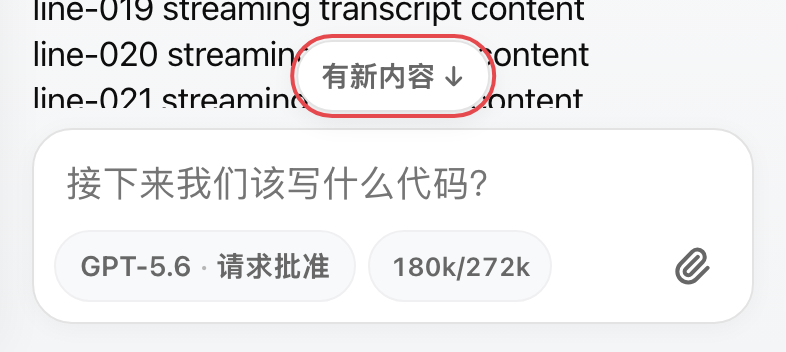
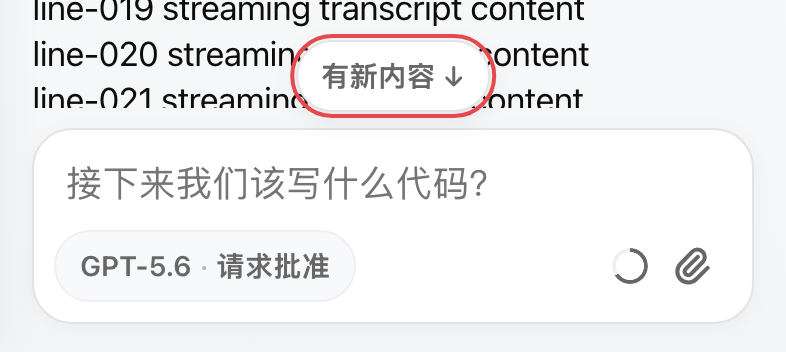
feat(ui): 删掉转圈，上下文用量改成 ChatGPT 那种圆环
你问「桌面端也有转圈吗」——查了 bundle，答案是没有。它那个圆是
composer.contextUsageIndicator（aria-label「上下文用量：{percent}%」），
按百分比填充的用量环，不是 loading。我之前把它看成转圈了。

所以这里有两笔账：

- 转圈（#mini-status-spinner）删掉。桌面端那条输入栏没有对应物；停止按钮本身
  就说明在跑，消息流里还有「正在思考」，第三个信号是冗余。
- 上下文用量从 `24.5k/258.4k` 的数字胶囊改成 18px 圆环，具体数字退到 title
  （文案取 composer.contextWindowUsageTooltip「已用 {n}k 标记，共 {n}k」），
  并从左边的胶囊区挪到右边操作区，位置对齐桌面端。

省下的宽度让上一版那个补丁可以撤掉：84px 胶囊 + 20px 转圈换成 18px 环之后，
turn 进行中再也不挤，不必靠 data-turn-busy 把用量藏起来。信息不丢。

环用 conic-gradient 填、mask 挖中心——挖空比盖一个同色圆点可靠，后者要求背景色
永远和容器一致，换个主题就露馅。

**顺带修了一个真 bug**：usedPct 从来没被钳过。长会话累积用量会超过窗口（全量
e2e 里实测到 437%，webkit 966%），数字胶囊时代只是显示得奇怪，喂给
conic-gradient 就是非法输入。钳在 token-usage.js 里而不是 CSS：CSS 拿到的是
「画多少」，不该由它判断数据合不合理。tone 仍然是 bad、title 仍报真实数字。

Constraint: 上下文用量是本项目特有的，桌面端那条栏里没有数字形态可抄，
        只有环 + tooltip 这个分工可抄
Rejected: 保留转圈只是缩小它——问题不是尺寸，是这个信号本身重复
Tested: npm run lint 绿
Tested: npm test 1097 passed / 0 failed（token-usage 新增 3 条：百分比、
        tooltip 文案、超窗口钳制）
Tested: npx playwright test 179 passed / 0 failed（chrome + webkit 全量）
Tested: 注入验收——摘掉 composer-chips 的 display:flex，输入区绊线红在
        「控件行从 40px 窜到 72px——胶囊换行了」
Not-tested: 环在真机上的可辨识度。18px 的淡灰环在 mock 截图里偏轻，
        用量低时只填一小段，实际好不好认要上手看

Changed region(s): [[0.4885, 0.7188, 0.6718, 0.8125], [0.7634, 0.6875, 0.8244, 0.8125]]

diff --git a/e2e/layout-sanity.spec.js b/e2e/layout-sanity.spec.js
@@ -213,8 +213,8 @@ test('卡片里的自然语言不套用代码样式', async ({ page }) => {
 test('turn 跑起来时输入区不窜高：控件挤不下要横向让位，不是换行', async ({ page }) => {
   await page.goto('/');
   await expect(page.locator('#state-label')).toHaveText('idle', { timeout: 10000 });
-  // 先跑一轮，让上下文表出现——它只在拿到用量之后才渲染，而它正是把这一行挤爆的那一个。
-  await page.locator('#msg-input').fill('让上下文表出现');
+  // 先跑一轮，用量环只在拿到用量之后才渲染。
+  await page.locator('#msg-input').fill('让上下文用量出现');
   await page.locator('#send-btn').click();
   await expect(page.locator('#state-label')).toHaveText('idle', { timeout: 20000 });
   await expect(page.locator('#context-meter')).toBeVisible({ timeout: 8000 });
@@ -226,15 +226,9 @@ test('turn 跑起来时输入区不窜高：控件挤不下要横向让位，不
   // 最坏情况由 JS 直接摆出来，不去等真实 turn 的时序：这条测的是「CSS 在控件全部
   // 在场时还能不能保持单行」，而按时序抓这一瞬极易变成偶发红（实测 #state-label
   // 在 turn 真正开始前就已经是 idle）。
-  //
-  // 关键是**同时**留着上下文表：turn 进行中它本来会被收起，胶囊区只剩一个元素、
-  // 怎么排都不会换行，于是这条断言测不到 composer-chips 的 flex 布局——第一版就是
-  // 这样，把 display:flex 摘掉仍然全绿。这里显式把它放回场上，让胶囊区真的放不下。
   await page.locator('#msg-input').fill('打字中的内容');
   await page.evaluate(() => {
     const doc = globalThis.document;
-    doc.querySelector('#input-area').toggleAttribute('data-turn-busy', true);
-    doc.querySelector('#mini-status-spinner').style.display = 'flex';
     doc.querySelector('#followup-btn').hidden = false;
     doc.querySelector('#send-btn-container').hidden = false;
     const send = doc.querySelector('#send-btn');
@@ -242,31 +236,32 @@ test('turn 跑起来时输入区不窜高：控件挤不下要横向让位，不
     send.disabled = false;
     send.dataset.mode = 'stop';
   });
+  expect(await rowHeight(), '控件全部在场时输入区就窜高了').toBe(idleHeight);
 
-  const crowdedHeight = await page.evaluate(() => {
-    const doc = globalThis.document;
-    const meter = doc.querySelector('#context-meter');
-    const restore = meter.style.display;
-    meter.style.display = 'inline-flex';
-    const h = Math.round(doc.querySelector('.input-controls-row').getBoundingClientRect().height);
-    meter.style.display = restore;
-    return h;
+  // 再往胶囊区塞一个控件，模拟「将来这一行又多了点东西」。这一步是这条用例的
+  // 鉴别力所在：胶囊区目前只剩设置胶囊一个元素，无论怎么排都不会换行，不注入
+  // 第二个元素的话，把 composer-chips 的 display:flex 摘掉它照样全绿。
+  await page.evaluate(() => {
+    const probe = globalThis.document.createElement('span');
+    probe.id = 'layout-probe';
+    probe.textContent = '再加一个控件';
+    probe.style.cssText = 'display:inline-flex;align-items:center;height:36px;padding:0 12px;white-space:nowrap;';
+    globalThis.document.querySelector('#composer-chips').appendChild(probe);
   });
-  // 改动前这里会从 40px 变成 80px：composer-chips 曾经是 block 容器，里面两个
+  const crowdedHeight = await rowHeight();
+  // 改动前这里会从 40px 变成 72px：composer-chips 曾经是 block 容器，里面的
   // inline-flex 胶囊放不下就换行，把整个输入区顶高一截。
   expect(crowdedHeight, `控件行从 ${idleHeight}px 窜到 ${crowdedHeight}px——胶囊换行了`)
     .toBe(idleHeight);
+  await page.evaluate(() => globalThis.document.querySelector('#layout-probe')?.remove());
 
-  const busyHeight = await rowHeight();
-  expect(busyHeight, '收起上下文表之后仍然应当是单行').toBe(idleHeight);
-
-  // 而且不能剩半个胶囊露在外面被右侧控件切掉：放不下就整个收起。
-  const meterClipped = await page.evaluate(() => {
+  // 用量环必须完整露在外面，不能被右侧控件切掉半个。
+  const ringClipped = await page.evaluate(() => {
     const m = globalThis.document.querySelector('#context-meter');
     const box = m.getBoundingClientRect();
-    if (!box.width) return false; // 已收起，符合预期
-    const chips = globalThis.document.querySelector('#composer-chips').getBoundingClientRect();
-    return box.right > chips.right + 1;
+    if (!box.width) return true; // 该显示却量不到，也是缺陷
+    const row = globalThis.document.querySelector('.input-controls-row').getBoundingClientRect();
+    return box.left < row.left - 1 || box.right > row.right + 1;
   });
-  expect(meterClipped, '上下文表只剩半个露在胶囊区外，被右侧控件切掉了').toBe(false);
+  expect(ringClipped, '上下文用量环被切掉了一部分').toBe(false);
 });

diff --git a/public/css/app.css b/public/css/app.css
@@ -1631,38 +1631,35 @@ body {
 
 /* 上下文占用。放在 composer 而不是 #status-detail —— 后者是 display:none 且
    全表没有任何规则打开它，把用量放进去等于不显示。这里是用户决定「这条要不要
-   发、要不要先 compact」的地方，正是这个数字该在的位置。 */
+   发、要不要先 compact」的地方。
+
+   形态抄 ChatGPT 的 composer.contextUsageIndicator：一个按百分比填充的小圆环，
+   具体数字退到 title。原先是 `24.5k/258.4k` 的数字胶囊，84px 宽——turn 跑起来
+   右边多两个控件就放不下，只能剩半个露在外面。换成 18px 的环之后空间绰绰有余，
+   不必再在 turn 进行中把它藏掉。
+
+   环用 conic-gradient 填、用 mask 挖中心：挖空比盖一个同色圆点可靠，后者要求
+   背景色永远和容器一致，换个主题就露馅。 */
 #context-meter {
-  display: inline-flex;
-  align-items: center;
-  height: 36px;
-  margin-left: 0.375rem;
-  padding: 0 0.625rem;
-  border-radius: var(--radius-pill);
-  background: var(--bg);
-  border: 1px solid var(--border-light);
-  color: var(--text-muted);
-  font-size: var(--font-xs);
-  font-weight: 600;
-  font-variant-numeric: tabular-nums;
-  line-height: 1;
-  white-space: nowrap;
+  --ring-fill: var(--text-muted);
+  --ring-track: var(--border-light);
+  flex: 0 0 auto;
+  display: inline-block;
+  width: 18px;
+  height: 18px;
+  margin-right: 0.125rem;
+  border-radius: 50%;
+  background: conic-gradient(var(--ring-fill) calc(var(--pct, 0) * 1%), var(--ring-track) 0);
+  -webkit-mask: radial-gradient(circle, transparent 54%, #000 56%);
+  mask: radial-gradient(circle, transparent 54%, #000 56%);
 }
-/* inline-flex 会盖掉 [hidden] 自带的 display:none，必须显式还原。 */
+/* inline-block 会盖掉 [hidden] 自带的 display:none，必须显式还原。 */
 #context-meter[hidden] { display: none; }
-/* turn 进行中收起：右边多出转圈/追加/停止之后胶囊区放不下，它只会剩半个露在外面。
-   见 setBusy() 里的说明——消息已经发出去时这个数字没有决策价值。 */
-#input-area[data-turn-busy] #context-meter { display: none; }
-#context-meter[data-tone="warn"] {
-  background: var(--warn-surface);
-  border-color: var(--warn-border);
-  color: var(--warn-text);
-}
-#context-meter[data-tone="bad"] {
-  background: var(--error-surface);
-  border-color: var(--error-border);
-  color: var(--error-text);
-}
+/* 拿不到上下文窗口时画不出比例。JS 那边把 --pct 设成 100，这里把填充色也调成
+   轨道色——于是它退化成一个安静的灰圈，而不是一个「用满了」的假警报。 */
+#context-meter[data-unknown] { --ring-fill: var(--ring-track); }
+#context-meter[data-tone="warn"] { --ring-fill: var(--warn-text); }
+#context-meter[data-tone="bad"] { --ring-fill: var(--error); }
 .pill-part {
   overflow: hidden;
   text-overflow: ellipsis;
@@ -1764,19 +1761,6 @@ body {
   transform: scale(0.93);
 }
 
-.mini-spinner {
-  width: 14px;
-  height: 14px;
-  border: 2px solid var(--spinner-track);
-  border-top-color: var(--accent-light);
-  border-radius: 50%;
-  animation: mini-spin 0.8s linear infinite;
-  display: inline-block;
-  flex-shrink: 0;
-}
-@keyframes mini-spin {
-  to { transform: rotate(360deg); }
-}
 
 .popover-header {
   padding: var(--space-6) 16px 10px;

diff --git a/public/js/app.js b/public/js/app.js
@@ -1999,8 +1999,15 @@ import { createDeviceToken, decodeBase64Text, urlBase64ToUint8Array } from '/js/
   function renderContextMeter(ctx) {
     const meter = formatContextMeter(ctx);
     contextMeterEl.hidden = !meter.visible;
-    contextMeterEl.textContent = meter.label;
     contextMeterEl.dataset.tone = meter.tone;
+    // 画环的是 CSS 的 conic-gradient，这里只交百分比。拿不到窗口就画不出比例，
+    // 退化成一个满环——那时 title 里只说用了多少，不谎称进度。
+    contextMeterEl.style.setProperty('--pct', meter.pct == null ? 100 : meter.pct);
+    contextMeterEl.toggleAttribute('data-unknown', meter.pct == null);
+    contextMeterEl.title = meter.title;
+    contextMeterEl.setAttribute('aria-label', meter.pct == null
+      ? meter.title
+      : `上下文用量：${meter.pct}%`);
   }
 
   function renderSessionMeta() {
@@ -3680,13 +3687,7 @@ import { createDeviceToken, decodeBase64Text, urlBase64ToUint8Array } from '/js/
     busy = b;
     if (!b) interruptPending = false;
     renderConnectionState();
-    const spinner = $('mini-status-spinner');
-    if (spinner) spinner.style.display = b ? 'inline-block' : 'none';
     if (!b) hideTyping();
-    // turn 跑起来之后右边会多出转圈、追加、停止三个控件，胶囊区被挤到放不下，
-    // 上下文表只剩半个露在外面（实测被裁成「36k/2」）。收起它——这个数字是拿来
-    // 决定「这条要不要发、要不要先 compact」的，消息已经发出去时它没有决策价值。
-    $('input-area')?.toggleAttribute('data-turn-busy', b);
     applyComposerMode();
   }
 

diff --git a/public/js/token-usage.js b/public/js/token-usage.js
@@ -40,7 +40,9 @@ export function formatTokens(n) {
 
 export function formatContextMeter(ctx) {
   const used = ctx?.contextTokens;
-  if (!Number.isFinite(used) || used <= 0) return { visible: false, label: '', tone: '' };
+  if (!Number.isFinite(used) || used <= 0) {
+    return { visible: false, label: '', tone: '', pct: null, title: '' };
+  }
 
   const window = ctx.contextWindow;
   const hasWindow = Number.isFinite(window) && window > 0;
@@ -54,5 +56,15 @@ export function formatContextMeter(ctx) {
     if (pct >= 90) tone = 'bad';
     else if (pct >= 75) tone = 'warn';
   }
-  return { visible: true, label, tone };
+  // 圆环按 pct 填充，具体数字退到 tooltip——抄 ChatGPT 的
+  // composer.contextWindowUsageTooltip。没有窗口就画不出比例，只报用了多少。
+  const title = hasWindow
+    ? `已用 ${formatTokens(used)} 标记，共 ${formatTokens(window)}`
+    : `已用 ${formatTokens(used)} 标记`;
+  // 环的填充比例必须是合法百分比。长会话的累积用量会超过窗口（实测到过 437%），
+  // 那时 tone 已经是 bad、title 也照实报，环再画出个 437% 只是把一个非法值喂给
+  // conic-gradient。钳在这里而不是 CSS 里：CSS 拿到的是「画多少」，不该由它判断
+  // 数据合不合理。
+  const ringPct = Number.isFinite(pct) ? Math.min(100, Math.max(0, pct)) : null;
+  return { visible: true, label, tone, pct: ringPct, title };
 }

diff --git a/e2e/token-usage-display.spec.js b/e2e/token-usage-display.spec.js
@@ -44,8 +44,15 @@ test.describe('token 用量的展示位置', () => {
     // 断言全绿而用户什么都看不到。断言「有值」不足以证明「看得见」。
     const meter = page.getByTestId('context-meter');
     await expect(meter).toBeVisible({ timeout: 10000 });
-    // 坏掉的 contextCost 会让这里恒为 "0.0k"——要能区分「真实值」和「可信的零」。
-    await expect(meter).toContainText('/272k');
-    await expect(meter).not.toContainText('0.0k');
+    // 用量从数字胶囊改成了圆环（抄 ChatGPT 的 contextUsageIndicator），环上没有
+    // 文字，具体数字退到 title。坏掉的 contextCost 会让这里恒为「已用 0.0k」——
+    // 要能区分「真实值」和「可信的零」。
+    await expect(meter).toHaveAttribute('title', /共 272k$/);
+    await expect(meter).not.toHaveAttribute('title', /已用 0/);
+    // 还要验环真的按比例画：--pct 是 CSS conic-gradient 的唯一输入，它停在 0
+    // 的话 title 再对也只是一个空心圈。
+    const pct = await meter.evaluate(el => Number(el.style.getPropertyValue('--pct')));
+    expect(pct, `--pct 是 ${pct}，环没有按比例填充`).toBeGreaterThan(0);
+    expect(pct).toBeLessThanOrEqual(100);
   });
 });

diff --git a/public/index.html b/public/index.html
@@ -297,10 +297,12 @@
             <span id="effort-trigger-text" class="pill-part"></span>
           </span>
         </button>
-        <span id="context-meter" data-testid="context-meter" title="当前上下文占用 / 模型上下文窗口" hidden></span>
       </div>
       <div class="composer-actions">
-        <div id="mini-status-spinner" class="mini-spinner" style="display: none;"></div>
+        <!-- 上下文用量：圆环在这里、具体数字在 title 里，抄 ChatGPT 的
+             composer.contextUsageIndicator。原先是左边一个 24.5k/258.4k 的数字胶囊，
+             turn 跑起来时右边控件一多就被挤到放不下。 -->
+        <span id="context-meter" data-testid="context-meter" role="img" hidden></span>
         <button id="attach-btn" type="button" title="附件" aria-label="添加附件">
           <svg viewBox="0 0 24 24" fill="none" stroke="currentColor" stroke-width="2.2" aria-hidden="true">
             <path stroke-linecap="round" stroke-linejoin="round" d="M15.172 7l-6.586 6.586a2 2 0 102.828 2.828l6.414-6.586a4 4 0 00-5.656-5.656l-6.415 6.585a6 6 0 108.486 8.486L20.5 13" />

diff --git a/e2e/ui-shots.spec.js b/e2e/ui-shots.spec.js
@@ -272,7 +272,6 @@ test.describe('UI_SURFACE 截图', () => {
     await annotate(page, [
       { sel: '#followup-btn', n: 6, place: 'tl' },
       { sel: '#send-btn', n: 7, place: 'tr' },
-      { sel: '#mini-status-spinner', n: 8, place: 'tl' },
     ]);
     await shotArea(page, '06-composer-running', '#input-area', { top: 26, bottom: 10 });
   });

diff --git a/docs/UI_SURFACE.md b/docs/UI_SURFACE.md
@@ -173,7 +173,7 @@ npm run shots
 
 ![输入区的常驻元素](assets/ui/05-composer.png)
 
-![turn 进行中才出现的三个控件](assets/ui/06-composer-running.png)
+![turn 进行中才出现的两个控件](assets/ui/06-composer-running.png)
 
 ![附件托盘](assets/ui/18-attach-tray.png)
 
@@ -181,13 +181,14 @@ npm run shots
 |---|---|---|---|
 | 1 | 输入框 | 占位符「接下来我们该写什么代码？」，自动增高 | 输入消息 |
 | 2 | 设置胶囊 | `GPT-5.6 · 请求批准`（模型 · 权限，可带模式与强度） | 打开会话设置 |
-| 3 | 上下文表 | `36k/272k`，逼近上限变黄/红 | 有用量后才出现 |
+| 3 | 上下文用量环 | 18px 小圆环，按百分比填充，逼近上限变黄/红；具体数字在长按/悬停的 tooltip 里（「已用 36k 标记，共 272k」）| 有用量后才出现 |
 | 4 | 附件按钮 | 回形针 | 选文件；也支持粘贴图片 |
 | 5 | 发送按钮 | 有内容时出现 | 发送 |
 | 6 | 追加按钮 | turn 进行中**且输入框有内容**时出现 | 追加到当前任务或排队 |
 | 7 | 停止按钮 | turn 进行中，替代发送按钮 | 中断当前 turn |
-| 8 | 加载指示 | turn 进行中的小转圈 | — |
-| 9 | 附件托盘 | 文件名 + 大小 + ✕ 的 chip 列表 | 点 chip 预览（仅图片）、✕ 移除 |
+| 8 | 附件托盘 | 文件名 + 大小 + ✕ 的 chip 列表 | 点 chip 预览（仅图片）、✕ 移除 |
+
+**没有单独的「加载指示」**：原先 turn 进行中会多一个小转圈，ChatGPT 桌面端那条输入栏里没有这个东西（它那个圆是上下文用量环，不是 loading）。停止按钮本身就说明在跑，消息流里还有「正在思考」，第三个信号是冗余。
 
 **输入时触发的浮层**：
 

diff --git a/docs/FEATURES.md b/docs/FEATURES.md
@@ -68,7 +68,7 @@
 | 2.13d | 活动区与最终回复之间插入「用时 N 秒」分隔 | `workedForLabel` / `.worked-for` |
 | 2.14 | turn 终态摘要（完成/失败/中断） | `turn-outcome.js` |
 | 2.15 | 界面不显示宿主机绝对路径（`/Users/xxx` 收敛） | `display-path.js` |
-| 2.16 | 上下文占用指示（`82.5k/272k`，逼近上限变色） | `token-usage.js` |
+| 2.16 | 上下文占用环（按百分比填充的 18px 圆环，逼近上限变色；数字在 tooltip） | `token-usage.js` |
 | 2.17 | 「有新内容 ↓」跳转按钮 | `jump-to-latest` |
 | 2.18 | 空会话引导卡片 | `empty-state` |
 | 2.19 | turn 完成的无障碍播报 | `turn-announcer` |
